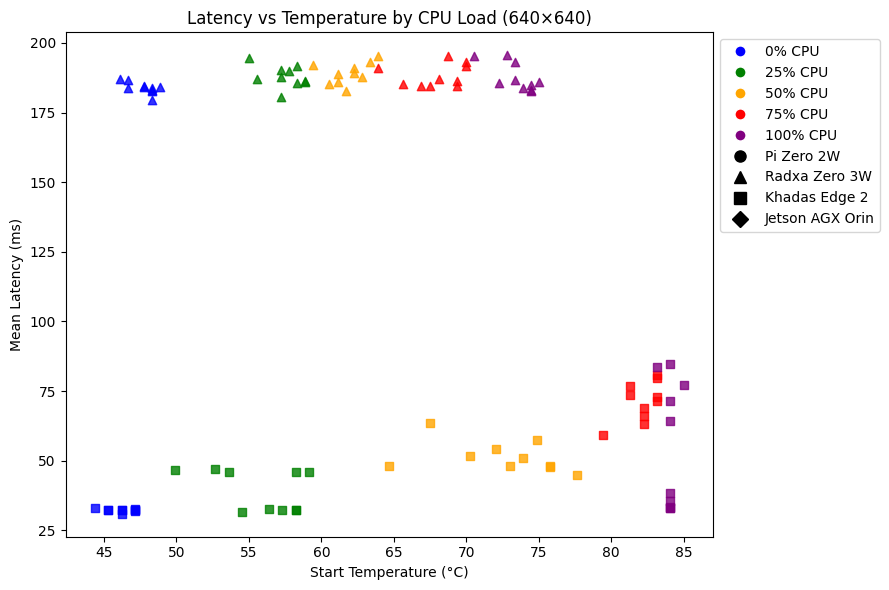
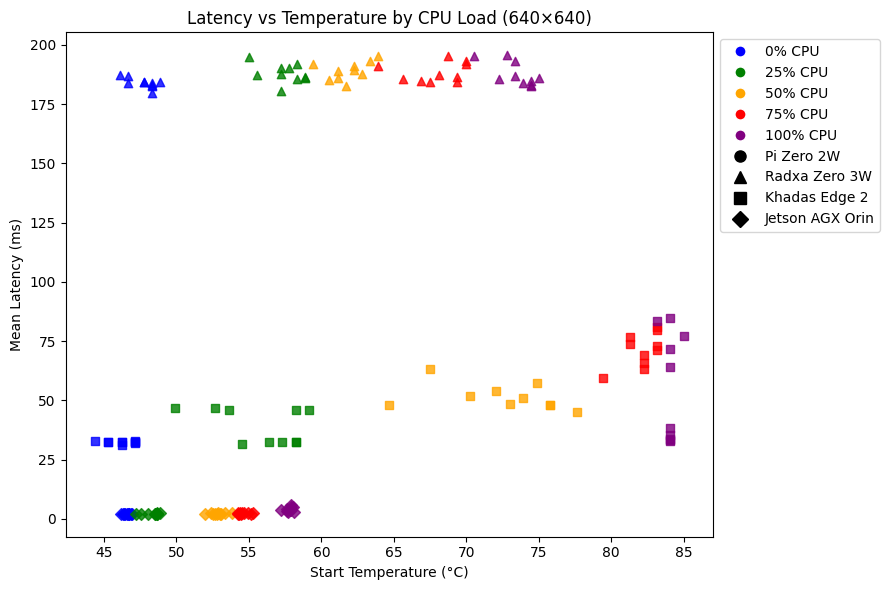
add: jetson testing with fp16 model

diff --git a/charts/create_plot.py b/charts/create_plot.py
@@ -1,0 +1,140 @@
+#!/usr/bin/env python3
+"""
+create_plot.py — all plots, driven entirely by the CONFIG dict below.
+
+Replaces create_plot.py, create_plot_khadas.py and create_plot_radxa_vs_khadas.py.
+The two old scatter scripts baked data inline; this reads it from the CSVs
+benchmark.py writes, so adding a board = adding one dict entry (no editing arrays).
+
+Adds Jetson AGX Orin. Produces:
+  * per-resolution latency boxplots across ALL boards
+  * latency-vs-start-temperature scatter (the old overlay), any board subset
+"""
+
+import os
+import pandas as pd
+import matplotlib.pyplot as plt
+from matplotlib.lines import Line2D
+
+# ---------------------------------------------------------------------------
+# CONFIG — add a board by adding one entry here. That's the whole change.
+#
+# Filenames are UNIFORM and generated automatically as:
+#     {slug}_benchmark_{res}.csv
+# e.g.  rpi_benchmark_640.csv,  khadas_benchmark_256.csv
+# So you only pick a short slug + a color; names can never drift out of sync.
+# ---------------------------------------------------------------------------
+BASE_PATH = "./"
+RESOLUTIONS = [256, 320, 640]
+NAME_TEMPLATE = "{slug}_benchmark_{res}.csv"
+
+BOARDS = {
+    "Pi Zero 2W":      {"slug": "rpi",    "color": "green"},
+    "Radxa Zero 3W":   {"slug": "radxa",  "color": "orange"},
+    "Khadas Edge 2":   {"slug": "khadas", "color": "blue"},
+    "Jetson AGX Orin": {"slug": "jetson", "color": "red"},
+}
+
+
+def csv_name(board, res):
+    return NAME_TEMPLATE.format(slug=BOARDS[board]["slug"], res=res)
+
+
+# ---------------------------------------------------------------------------
+def load_csv(board, res):
+    """Return the DataFrame for a board+res, or None if the CSV is missing."""
+    path = os.path.join(BASE_PATH, csv_name(board, res))
+    if not os.path.exists(path):
+        print(f"[skip] missing {path}")
+        return None
+    return pd.read_csv(path)
+
+
+def boxplot_all_boards(res):
+    """One boxplot per resolution comparing every board that has data."""
+    series, labels, colors = [], [], []
+    for board, cfg in BOARDS.items():
+        df = load_csv(board, res)
+        if df is None or "mean_latency_ms" not in df:
+            continue
+        series.append(df["mean_latency_ms"])
+        labels.append(board)
+        colors.append(cfg["color"])
+    if not series:
+        return
+
+    plt.figure(figsize=(2 + 1.6 * len(series), 6))
+    bp = plt.boxplot(series, labels=labels, patch_artist=True,
+                     medianprops=dict(color="black"))
+    for box, c in zip(bp["boxes"], colors):
+        box.set(facecolor=c, alpha=0.7)
+    plt.title(f"Inference Latency by Board ({res}×{res})")
+    plt.ylabel("Mean Latency (ms)")
+    plt.grid(axis="y", linestyle="--", alpha=0.5)
+    plt.xticks(rotation=15)
+    out = f"latency_boxplot_{res}.png"
+    plt.savefig(out, bbox_inches="tight")
+    plt.close()
+    print(f"[wrote] {out}")
+
+
+def scatter_latency_vs_temp(res, boards=None):
+    """Latency vs start temperature, colored by CPU load (the old overlay)."""
+    boards = boards or list(BOARDS)
+    load_colors = {0: "blue", 25: "green", 50: "orange", 75: "red", 100: "purple"}
+    markers = ["o", "^", "s", "D", "v", "P"]
+    board_marker = {b: markers[i % len(markers)] for i, b in enumerate(boards)}
+
+    plt.figure(figsize=(9, 6))
+    plotted = False
+    for board in boards:
+        df = load_csv(board, res)
+        if df is None or "temp_start_C" not in df:
+            continue
+        for load, c in load_colors.items():
+            sub = df[df["cpu_load_percent"] == load]
+            if sub.empty:
+                continue
+            plt.scatter(sub["temp_start_C"], sub["mean_latency_ms"],
+                        color=c, marker=board_marker[board], alpha=0.8)
+            plotted = True
+    if not plotted:
+        plt.close()
+        return
+
+    plt.xlabel("Start Temperature (°C)")
+    plt.ylabel("Mean Latency (ms)")
+    plt.title(f"Latency vs Temperature by CPU Load ({res}×{res})")
+    load_handles = [Line2D([0], [0], marker="o", color="w",
+                           markerfacecolor=c, markersize=8)
+                    for c in load_colors.values()]
+    load_labels = [f"{l}% CPU" for l in load_colors]
+    dev_handles = [Line2D([0], [0], marker=board_marker[b], color="k",
+                          linestyle="None", markersize=8) for b in boards]
+    plt.legend(handles=load_handles + dev_handles,
+               labels=load_labels + boards,
+               loc="upper left", bbox_to_anchor=(1, 1))
+    plt.tight_layout()
+    out = f"latency_vs_temp_{res}.png"
+    plt.savefig(out, bbox_inches="tight")
+    plt.close()
+    print(f"[wrote] {out}")
+
+
+def print_expected_files():
+    print("Expected CSV filenames (pattern: " + NAME_TEMPLATE + "):")
+    for board in BOARDS:
+        names = ", ".join(csv_name(board, r) for r in RESOLUTIONS)
+        print(f"  {board:16s} -> {names}")
+    print()
+
+
+def main():
+    print_expected_files()
+    for res in RESOLUTIONS:
+        boxplot_all_boards(res)
+        scatter_latency_vs_temp(res)
+
+
+if __name__ == "__main__":
+    main()